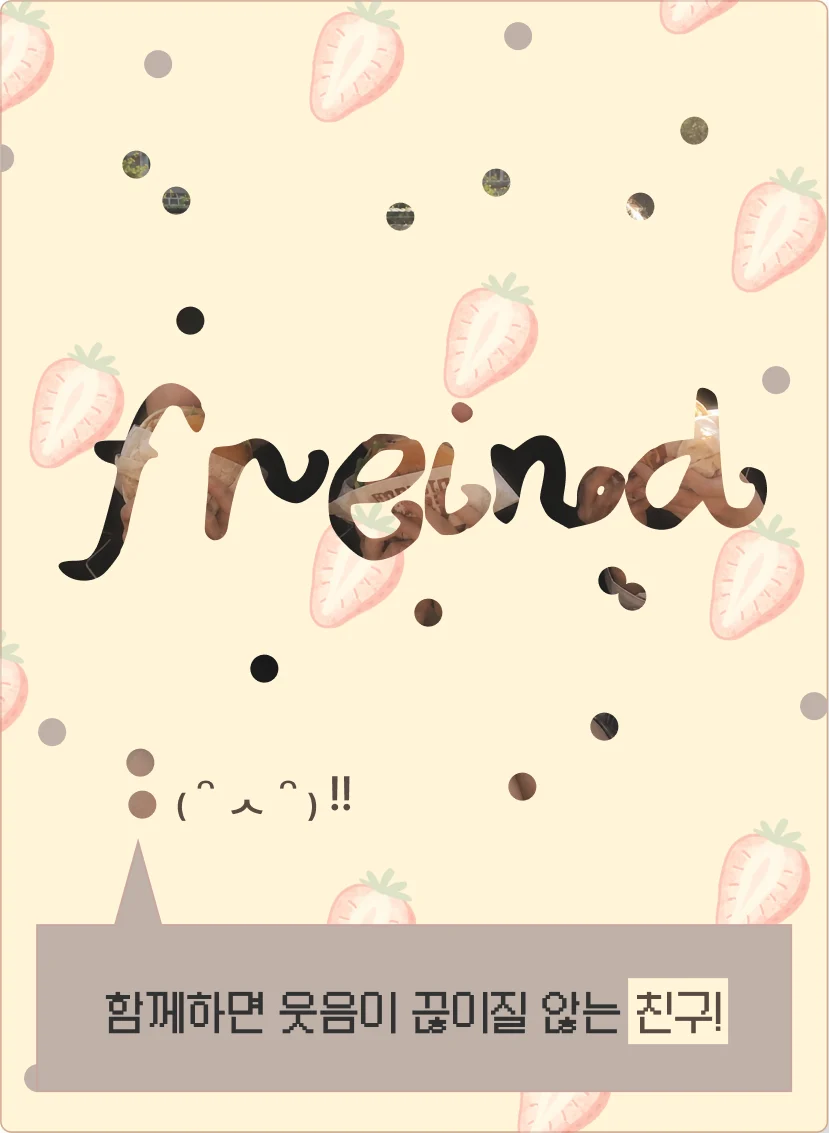
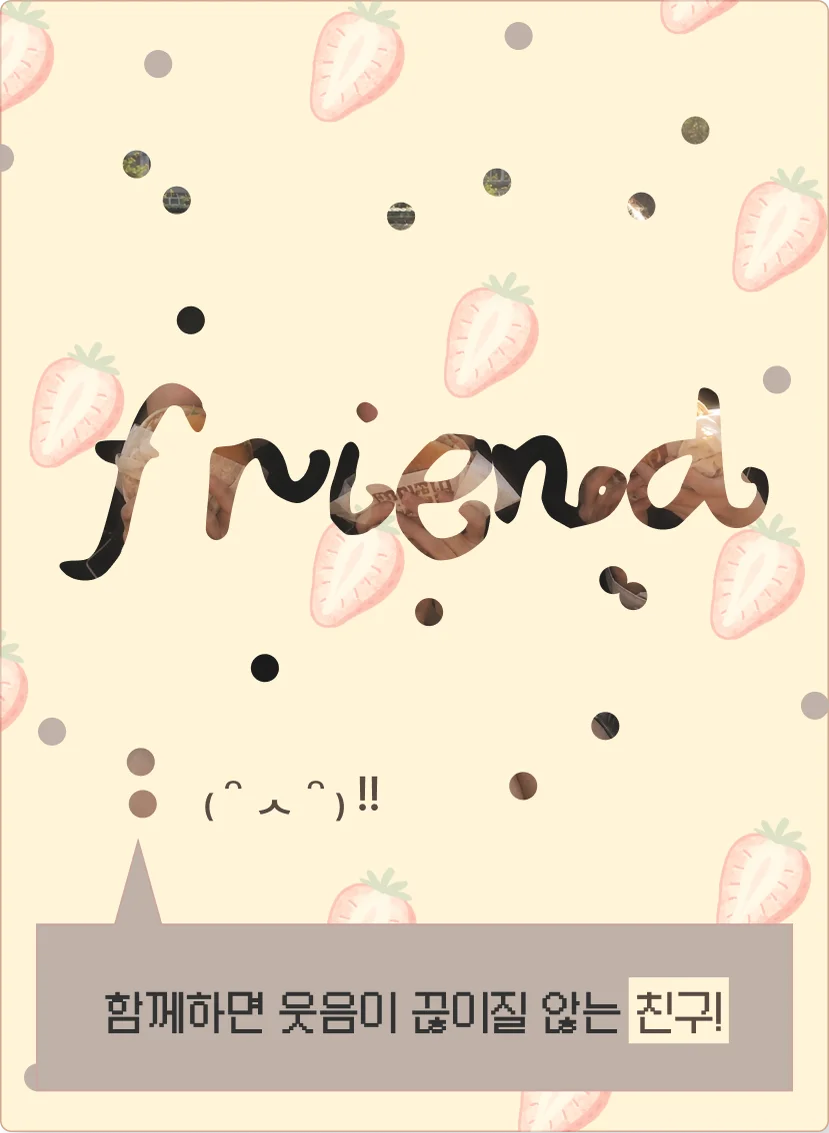
fix: 친구 카드 그림을 friend로 고친 디자인으로 교체

diff --git a/.claude/known-issues/records/relation-card-artwork.md b/.claude/known-issues/records/relation-card-artwork.md
@@ -1,8 +1,7 @@
-# 관계 카드 그림의 오탈자와 남은 레이어
+# 관계 카드 그림에 남은 레이어
 
 ## 무엇이 다른지
 
-- 친구 카드 앞뒷면의 손글씨가 `friend`가 아니라 `freind`로 적혀 있습니다.
 - 동료 카드 뒷면의 `colleague` 글자 뒤에 분홍색 `friend` 글자가 흐리게 남아 있습니다. 다른 카드에서 복사하며 남은 레이어로 보입니다.
 - 가족 카드를 뒤집은 화면의 배경 마스크에 연인 사진이 들어 있습니다. 마스크로만 쓰여 화면에는 보이지 않습니다.
 
@@ -10,9 +9,9 @@
 
 ## 어디서 확인했는지
 
-- Figma `1:82546` (컴포넌트)의 친구 카드, 동료 카드
+- Figma `1:82546` (컴포넌트)의 동료 카드
 - Figma `1:81510` (가족 카드를 뒤집은 화면)의 `Mask group`
-- `public/assets/cards/friend-front.webp`, `friend-back.webp`, `colleague-back.webp`
+- `public/assets/cards/colleague-back.webp`
 
 ## 왜 지금 우리 코드에서 고치면 안 되는지
 
@@ -21,3 +20,5 @@
 ## 언제/누가 해결해야 하는지
 
 디자이너가 시안을 고친 뒤 카드 면을 다시 내보내 교체합니다. 전시 전에 확인이 필요합니다.
+
+친구 카드의 `freind` 오타는 디자이너가 새 컴포넌트(`157:36388`)로 고쳤고, 2026-10-21에 카드 면을 다시 내보내 교체했습니다.
